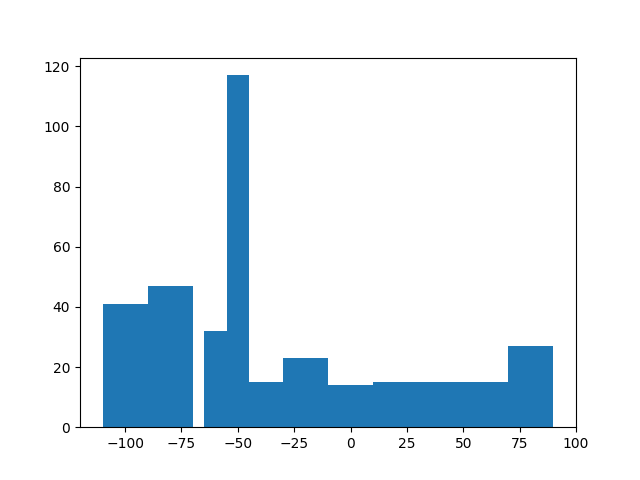
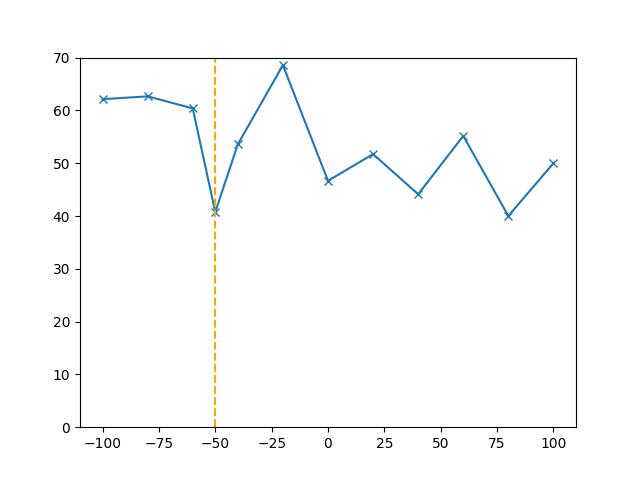
better plots

diff --git a/survey/analyser.py b/survey/analyser.py
@@ -55,7 +55,9 @@ chosenDist = dict()
 chosenDict = dict()
 for key in parameter_range.keys():
     chosenDict[key] = collections.defaultdict(lambda: 0)
-    chosenDist[key] = collections.defaultdict(lambda: 0)
+    chosenDist[key] = dict()
+    chosenDist[key]["chosen"] = collections.defaultdict(lambda: 0)
+    chosenDist[key]["displayed"] = collections.defaultdict(lambda: 0)
 
 for _, row in sub_df.iterrows():
     if row["chosen"] == "error":
@@ -112,10 +114,13 @@ for _, row in sub_df.iterrows():
         raise ("wait, that's illegal")
 
     if chosen != "unsure" and not math.isclose(lChange, rChange):
+        chosenDist[parameter]["displayed"][lChange] += 1
+        chosenDist[parameter]["displayed"][rChange] += 1
+
         if chosen == "leftImage":
-            chosenDist[parameter][lChange] += 1
+            chosenDist[parameter]["chosen"][lChange] += 1
         else:
-            chosenDist[parameter][rChange] += 1
+            chosenDist[parameter]["chosen"][rChange] += 1
 
 params = sorted(parameter_range.keys(), key=lambda k: chosenDict[k]["bigger"] / chosenDict[k]["smaller"])
 for key in params:
@@ -126,10 +131,13 @@ for key in params:
     print(f"\tunsure but not equal:\t{'{:.1f}%'.format(chosenDict[key]['unsure_not_eq'] / sum(chosenDict[key].values()) * 100)}\t| {chosenDict[key]['unsure_not_eq']}")
     print(f"\tnot unsure but equal:\t{'{:.1f}%'.format(chosenDict[key]['not_unsure_eq'] / sum(chosenDict[key].values()) * 100)}\t| {chosenDict[key]['not_unsure_eq']}")
 
-    vals = []
-    for k, v in chosenDist[key].items():
-        vals.extend([k] * v)
-    plt.hist(vals, bins=parameter_range[key]["range"], align="left")
+    x = []
+    y = []
+    for k, v in sorted(chosenDist[key]["chosen"].items(), key=lambda k: k[0]):
+        x.append(k)
+        y.append((chosenDist[key]["chosen"][k] / chosenDist[key]["displayed"][k]) * 100)
+    plt.plot(x, y, "-x")
+    plt.axvline(x=parameter_range[key]["default"], linestyle="--", color="orange")
     plt.ylim(bottom=0)
     plt.savefig(plot_dir / f"{key}_dist.png")
     plt.clf()
